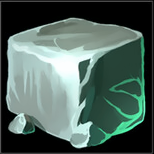
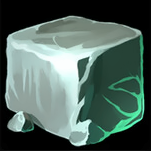
feat(cut): режем по внутренней стороне рамки, опираясь на тёмные пиксели
Новый режим по умолчанию --cut inner: от центра белой линии идём внутрь
слота и ставим границу на первом реально тёмном пикселе фона
(яркость <= 40, без цвета). Белая линия в иконку не попадает.
Если у края рисунок - граница остаётся на bbox, чтобы не резать картинку.

Замер по 1130 иконкам:
  средняя яркость кромки: 21.6 (было 48.9 по внешней стороне линии)
  ярких пикселей линии на кромке: 15% (было 57%)
  размер: 134-154, медиана 151

--cut line (по внешней стороне линии) и --cut corner (по чёрным углам)
остаются доступны флагом.

diff --git a/tools/batch_all.py b/tools/batch_all.py
@@ -123,6 +123,46 @@ def crop_by_sheet_line(img: np.ndarray, box) -> np.ndarray:
                max(0, x0 - el):min(w, x1 + 1 + er)]
 
 
+DARK_MAX = 40       # «тёмный фон» слота
+INNER_MAX = 4       # сколько пикселей внутрь разрешено отступить от линии
+
+
+def _is_dark(px: np.ndarray) -> bool:
+    """Тёмный нейтральный пиксель - фон внутри слота."""
+    f = px.astype(np.int16)
+    return f.mean() <= DARK_MAX and (f.max() - f.min()) <= LINE_MAX_CHROMA
+
+
+def crop_by_inner_edge(img: np.ndarray, box) -> np.ndarray:
+    """Режем по ВНУТРЕННЕЙ стороне белой рамки, опираясь на тёмные пиксели.
+
+    bbox проходит по центру белой линии. От него идём внутрь слота и ставим
+    границу на первом реально тёмном пикселе фона - то есть белая линия в
+    иконку НЕ попадает. Если у края рисунок (пиксель цветной, не тёмный),
+    остаёмся на bbox: отрезать кусок картинки нельзя.
+    """
+    x0, y0, x1, y1 = box
+    H, W = img.shape[:2]
+    cy, cx = (y0 + y1) // 2, (x0 + x1) // 2
+
+    def inward(run, start, step):
+        for k in range(1, INNER_MAX + 1):
+            i = start + step * k
+            if not (0 <= i < len(run)):
+                break
+            if _is_dark(run[i]):
+                return i
+            if not _line_like(run[i]):
+                return start            # тут рисунок - не трогаем
+        return start
+
+    nx0 = inward(img[cy], x0, +1)
+    nx1 = inward(img[cy], x1, -1)
+    ny0 = inward(img[:, cx], y0, +1)
+    ny1 = inward(img[:, cx], y1, -1)
+    return img[max(0, ny0):min(H, ny1 + 1), max(0, nx0):min(W, nx1 + 1)]
+
+
 CORNER_P = 3        # отступ от линии сетки внутрь слота
 CORNER_I = 8        # размер углового плашка, по которому берём эталон фона
 
@@ -220,7 +260,9 @@ def process_sheet(path: str, outroot: str, nslots: int | None,
 
     made, noise_before, noise_after = 0, 0.0, 0.0
     for k, box in enumerate(mine):
-        if cut == "corner":
+        if cut == "inner":
+            crop = crop_by_inner_edge(img, box)       # по внутренней стороне рамки
+        elif cut == "corner":
             cb = corner_box(img, box)
             if cb is not None:
                 cx0, cy0, cx1, cy1 = cb
@@ -277,9 +319,10 @@ def main() -> int:
                     choices=["none"] + sorted(S.VARIANTS),
                     help="рамка-бортик вокруг иконки; по умолчанию none - без рамки. "
                          "Рамка требует --size (рисуется в пикселях кадра)")
-    ap.add_argument("--cut", default="line", choices=["line", "corner"],
-                    help="как искать границы: line - по внешнему краю белой линии "
-                         "(по умолчанию), corner - по однотонным чёрным углам слота")
+    ap.add_argument("--cut", default="inner", choices=["inner", "line", "corner"],
+                    help="как искать границы: inner - по внутренней стороне белой "
+                         "рамки, опираясь на тёмные пиксели (по умолчанию); "
+                         "line - по внешнему краю линии; corner - по чёрным углам")
     ap.add_argument("--jobs", type=int, default=2)
     args = ap.parse_args()
     frame = None if args.frame == "none" else args.frame

diff --git a/tools/run_all.py b/tools/run_all.py
@@ -111,9 +111,10 @@ def main() -> int:
                     help="рамка-бортик: none (по умолчанию), sharp, deep, inset, soft")
     ap.add_argument("--no-frame", action="store_true",
                     help="без рамки (то же, что --frame none)")
-    ap.add_argument("--cut", default="line", choices=["line", "corner"],
-                    help="границы: line - по белой линии (по умолчанию), "
-                         "corner - по однотонным чёрным углам слота")
+    ap.add_argument("--cut", default="inner", choices=["inner", "line", "corner"],
+                    help="границы: inner - по внутренней стороне белой рамки, "
+                         "по тёмным пикселям (по умолчанию); line - по внешнему "
+                         "краю линии; corner - по однотонным чёрным углам")
     ap.add_argument("--jobs", type=int, default=2)
     ap.add_argument("--open", action="store_true", help="открыть папку в конце")
     args = ap.parse_args()

diff --git a/README_START.md b/README_START.md
@@ -15,11 +15,16 @@
 Размер — **родной, максимальный**: 146–155 px. **Без апскейла и без рамки**,
 пиксель в пиксель, поэтому ничего не размывается.
 
-Режем ровно **по самой дальней грани белой линии сетки**: детектор находит
-рамку по её центру, а `crop_by_sheet_line()` отступает наружу на всю толщину
-линии — ядро (~60) и сглаженный внешний край (~20–30), всего 1–4 px, зависит
-от листа. Белая линия входит в иконку целиком и служит ей родной рамкой,
-а за её границей уже тёмный жёлоб.
+Режем по **внутренней стороне белой рамки**, опираясь на тёмные пиксели:
+детектор находит рамку по центру линии, а `crop_by_inner_edge()` отступает
+внутрь слота и ставит границу на первом реально тёмном пикселе фона
+(яркость ≤ 40, без цвета). Белая линия в иконку не попадает — по краю идёт
+чистый тёмный фон. Если у края рисунок (пиксель цветной, не тёмный), граница
+остаётся на bbox, чтобы не отрезать картинку.
+
+Замер по 1130 иконкам: средняя яркость кромки 21.6 против 48.9 у варианта по
+внешней стороне линии, ярких пикселей линии на кромке 15% против 57%.
+Размер 134–154, медиана 151.
 
 ## macOS / Linux
 
@@ -37,6 +42,7 @@ run_all.bat --smooth           :: EDSR вместо FSRCNN (медленнее, 
 run_all.bat --out my_folder    :: сложить результат в другую папку
 run_all.bat --up 256           :: апскейл до 256 (мягче оригинал, но крупнее)
 run_all.bat --frame sharp --up 256  :: то же + чёрная рамка 10 px
+run_all.bat --cut line         :: границы по внешнему краю белой линии
 run_all.bat --cut corner       :: границы по однотонным чёрным углам слота
 ```
 
@@ -55,12 +61,12 @@ python3 tools/run_all.py
 | чёрная рамка-бортик (по желанию) | `tools/style_frame.py` (`--frame sharp`) |
 | границы по чёрным углам (опция) | `batch_all.py --cut corner` |
 
-`--cut line` (по умолчанию) ставит границу на внешнюю кромку белой линии
-сетки — работает на всех 11 300 иконках. `--cut corner` ищет однотонный
-чёрный угол слота (по часовой от левого верхнего) и строит вырез от него:
-на 84% иконок результат совпадает пиксель в пиксель, но примерно в трети
-ячеек чистого угла нет (там дымка или градиент) — такие берутся обычным
-способом.
+`--cut inner` (по умолчанию) ставит границу на внутреннюю сторону белой
+рамки — по тёмным пикселям фона, линия в иконку не попадает.
+`--cut line` — по внешнему краю линии (линия остаётся в иконке как рамка).
+`--cut corner` — по однотонным чёрным углам слота (по часовой от левого
+верхнего): на 84% иконок совпадает с `line` пиксель в пиксель, но в трети
+ячеек чистого угла нет — там дымка или градиент.
 
 По умолчанию конвейер ничего не увеличивает и не рисует: вырез → чистка →
 PNG в родном размере. Апскейл и рамка включаются только явно (`--up`,
